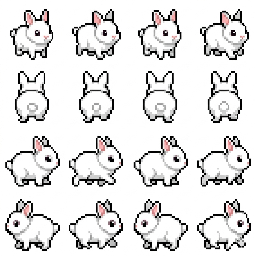
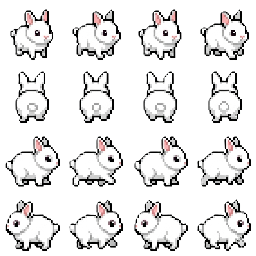
토끼 배경 투명 처리 제거 (원본 PNG에서 이미 처리됨) 및 이미지 업데이트

diff --git a/setup.html b/setup.html
@@ -345,7 +345,8 @@
         fixed.src = cv.toDataURL();
       } else if (isRabbit) {
         // 토끼: 1:1 프레임을 64x96 슬롯에 비율 유지 축소 (세로 중앙)
-        // + 원본 row 2 = RIGHT → row 3 그대로, row 2는 프레임별 좌우반전 + 흰 배경 투명화
+        // + 원본 row 2 = RIGHT → row 3 그대로, row 2는 프레임별 좌우반전
+        // (배경은 원본 PNG에서 이미 투명 처리됨)
         const scale = Math.min(64 / fw, 96 / fh);
         const newFW = Math.round(fw * scale);
         const newFH = Math.round(fh * scale);
@@ -355,17 +356,14 @@
         cv.width = 256; cv.height = 384;
         const cx = cv.getContext('2d');
         cx.imageSmoothingEnabled = false;
-        // row 0,1 (FRONT, BACK) 스케일 복사
         for (let r = 0; r < 2; r++) {
           for (let c = 0; c < 4; c++) {
             cx.drawImage(img, c*fw, r*fh, fw, fh, c*64 + xOff, r*96 + yOff, newFW, newFH);
           }
         }
-        // row 3 (RIGHT) ← 원본 row 2
         for (let c = 0; c < 4; c++) {
           cx.drawImage(img, c*fw, 2*fh, fw, fh, c*64 + xOff, 3*96 + yOff, newFW, newFH);
         }
-        // row 2 (LEFT) ← 원본 row 2 프레임별 좌우반전
         for (let c = 0; c < 4; c++) {
           cx.save();
           cx.translate(c*64 + xOff + newFW, 2*96 + yOff);
@@ -373,13 +371,6 @@
           cx.drawImage(img, c*fw, 2*fh, fw, fh, 0, 0, newFW, newFH);
           cx.restore();
         }
-        // 흰 배경 투명화
-        const imgData = cx.getImageData(0, 0, 256, 384);
-        const d = imgData.data;
-        for (let i = 0; i < d.length; i += 4) {
-          if (d[i] > 240 && d[i+1] > 240 && d[i+2] > 240) d[i+3] = 0;
-        }
-        cx.putImageData(imgData, 0, 0);
         const fixed = new Image();
         fixed.onload = () => { spriteImg = fixed; };
         fixed.src = cv.toDataURL();

diff --git a/rest.html b/rest.html
@@ -796,7 +796,8 @@ function createSpriteImage(svgText, colors, options = {}) {
         fixed.onload = () => resolve(fixed);
         fixed.src = cv.toDataURL();
       } else if (isRabbit) {
-        // 토끼: 1:1 비율 유지 축소 + row 2(RIGHT) → row 3, row 2는 좌우반전, 흰 배경 투명화
+        // 토끼: 1:1 비율 유지 축소 + row 2(RIGHT) → row 3, row 2는 좌우반전
+        // (배경은 원본 PNG에서 이미 투명 처리됨)
         const scale = Math.min(64 / fw, 96 / fh);
         const newFW = Math.round(fw * scale);
         const newFH = Math.round(fh * scale);
@@ -821,12 +822,6 @@ function createSpriteImage(svgText, colors, options = {}) {
           cx.drawImage(img, c*fw, 2*fh, fw, fh, 0, 0, newFW, newFH);
           cx.restore();
         }
-        const imgData = cx.getImageData(0, 0, 256, 384);
-        const d = imgData.data;
-        for (let i = 0; i < d.length; i += 4) {
-          if (d[i] > 240 && d[i+1] > 240 && d[i+2] > 240) d[i+3] = 0;
-        }
-        cx.putImageData(imgData, 0, 0);
         const fixed = new Image();
         fixed.onload = () => resolve(fixed);
         fixed.src = cv.toDataURL();

diff --git a/work.html b/work.html
@@ -272,7 +272,8 @@
         fixed.onload = () => { spriteImg = fixed; startAnimation(); };
         fixed.src = cv.toDataURL();
       } else if (isRabbit) {
-        // 토끼: 1:1 비율 유지 축소 + row 2(RIGHT) → row 3, row 2는 좌우반전, 흰 배경 투명화
+        // 토끼: 1:1 비율 유지 축소 + row 2(RIGHT) → row 3, row 2는 좌우반전
+        // (배경은 원본 PNG에서 이미 투명 처리됨)
         const scale = Math.min(64 / fw, 96 / fh);
         const newFW = Math.round(fw * scale);
         const newFH = Math.round(fh * scale);
@@ -297,12 +298,6 @@
           cx.drawImage(img, c*fw, 2*fh, fw, fh, 0, 0, newFW, newFH);
           cx.restore();
         }
-        const imgData = cx.getImageData(0, 0, 256, 384);
-        const d = imgData.data;
-        for (let i = 0; i < d.length; i += 4) {
-          if (d[i] > 240 && d[i+1] > 240 && d[i+2] > 240) d[i+3] = 0;
-        }
-        cx.putImageData(imgData, 0, 0);
         const fixed = new Image();
         fixed.onload = () => { spriteImg = fixed; startAnimation(); };
         fixed.src = cv.toDataURL();
